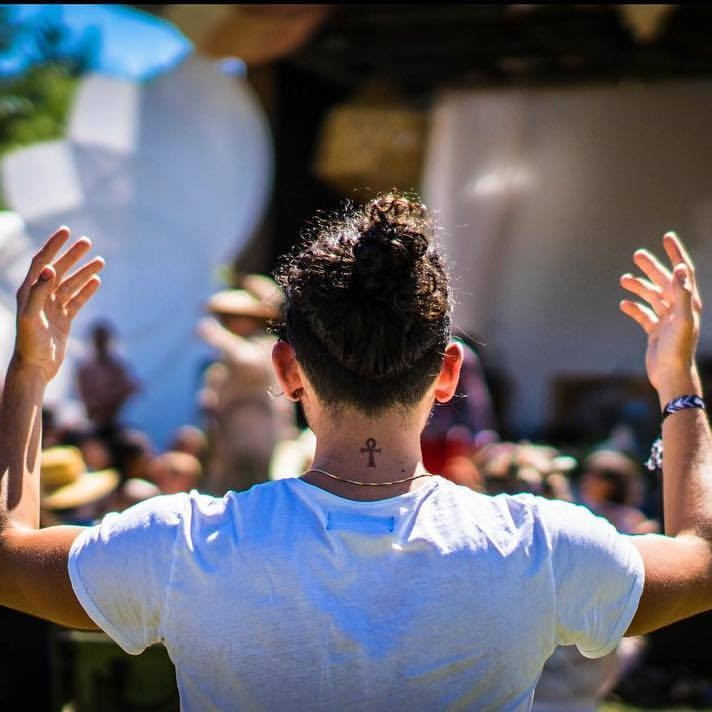
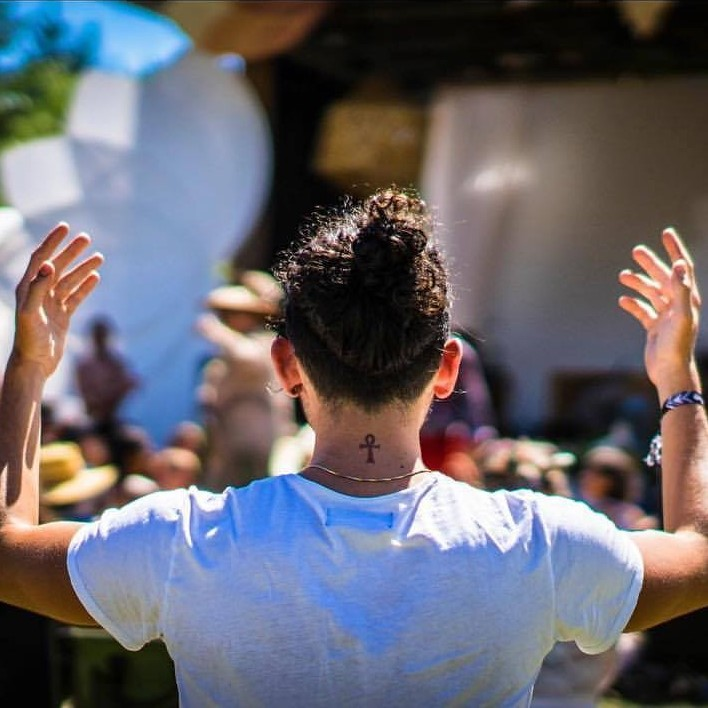
crop certain photos and adjust grid gap

diff --git a/src/views/BlessedCoastView.vue b/src/views/BlessedCoastView.vue
@@ -97,7 +97,7 @@ export default {
   font-family: Amandine, sans-serif;
   display: flex;
   flex-direction: column;
-  /* padding: 0 !important; */
+  justify-content: center;
   max-width: 100vw !important;
 }
 .socials {
@@ -116,7 +116,9 @@ export default {
 
 .basic {
   padding: -1rem;
-  margin: -1rem;
+
+  margin: 0 auto;
+  /* margin: -1rem; */
   background-color: #ae9def;
   color: #531a4a;
   display: flex;
@@ -129,9 +131,9 @@ export default {
   width: 100%;
   height: auto;
   border-radius: 10px;
+  margin-bottom: 1rem;
 }
 h1 {
-  font-size: 2rem;
   font-weight: 700;
   margin: 1rem;
   color: #531a4a;
@@ -144,12 +146,12 @@ p {
 
 .landing_page_images {
   display: grid;
-  gap: 5px;
-  padding: 1rem;
+  /* padding: 1rem; */
   grid-template-columns: repeat(3, 1fr);
+  gap: 1rem;
 }
 img {
-  border-radius: 10px;
+  border-radius: 5px;
 }
 a {
   border-radius: 10px;
